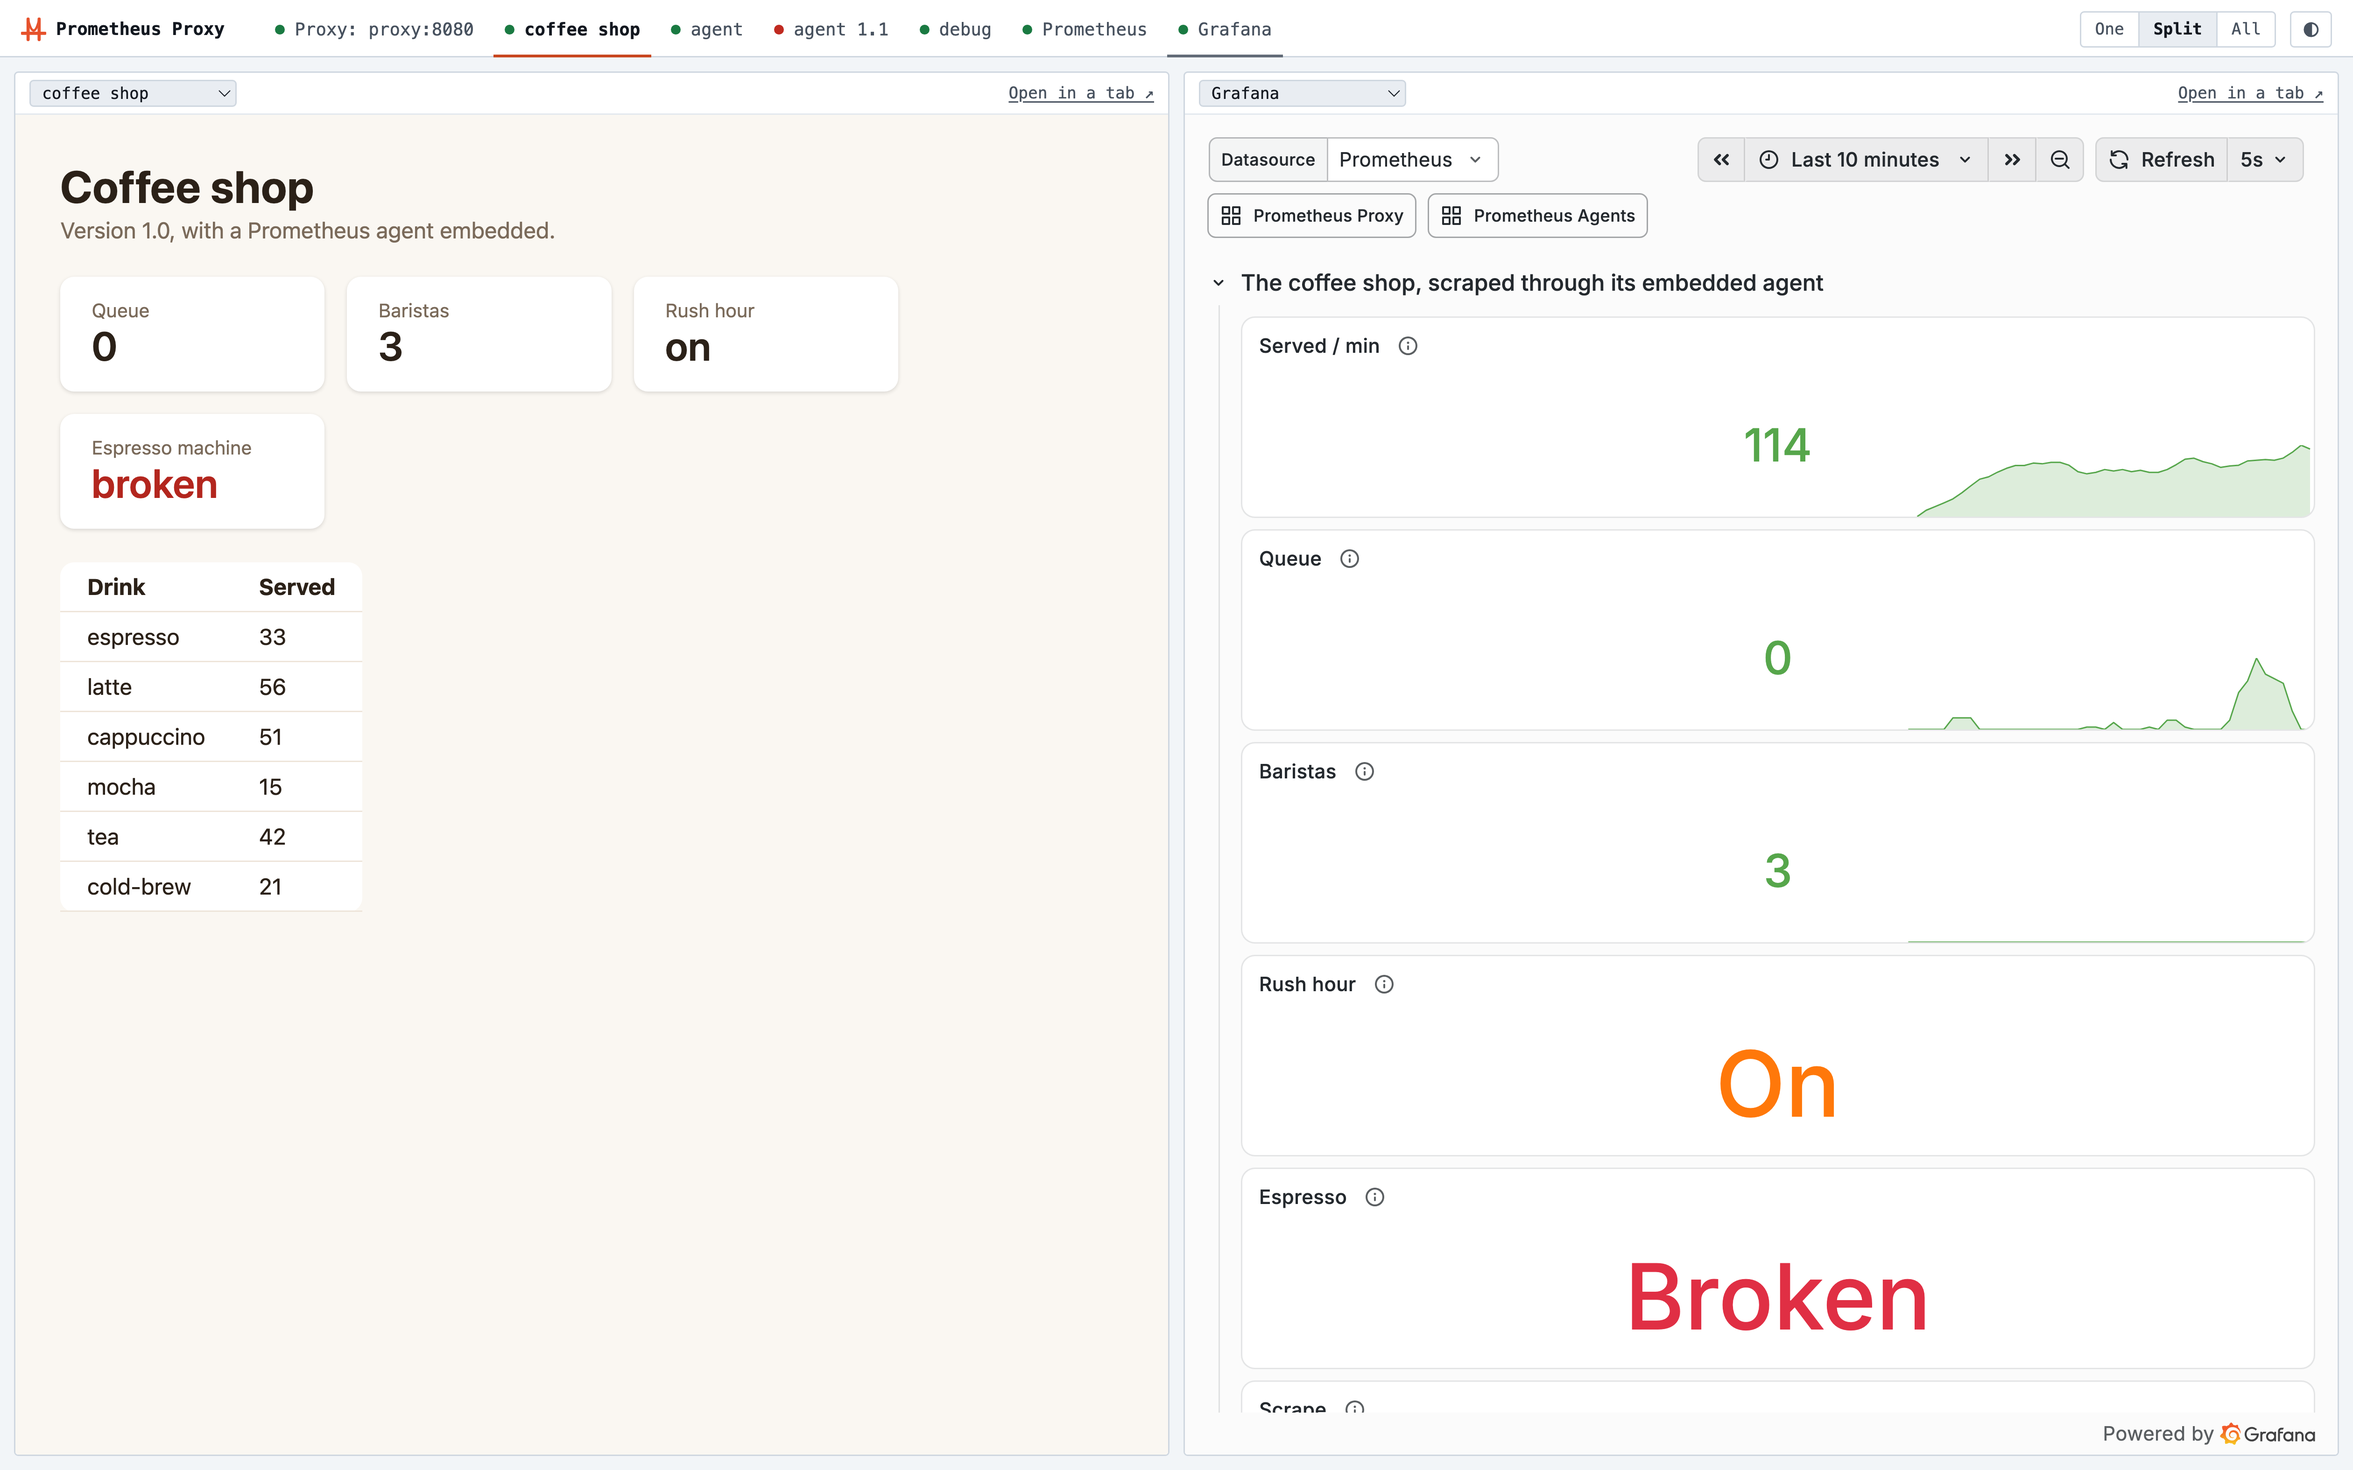
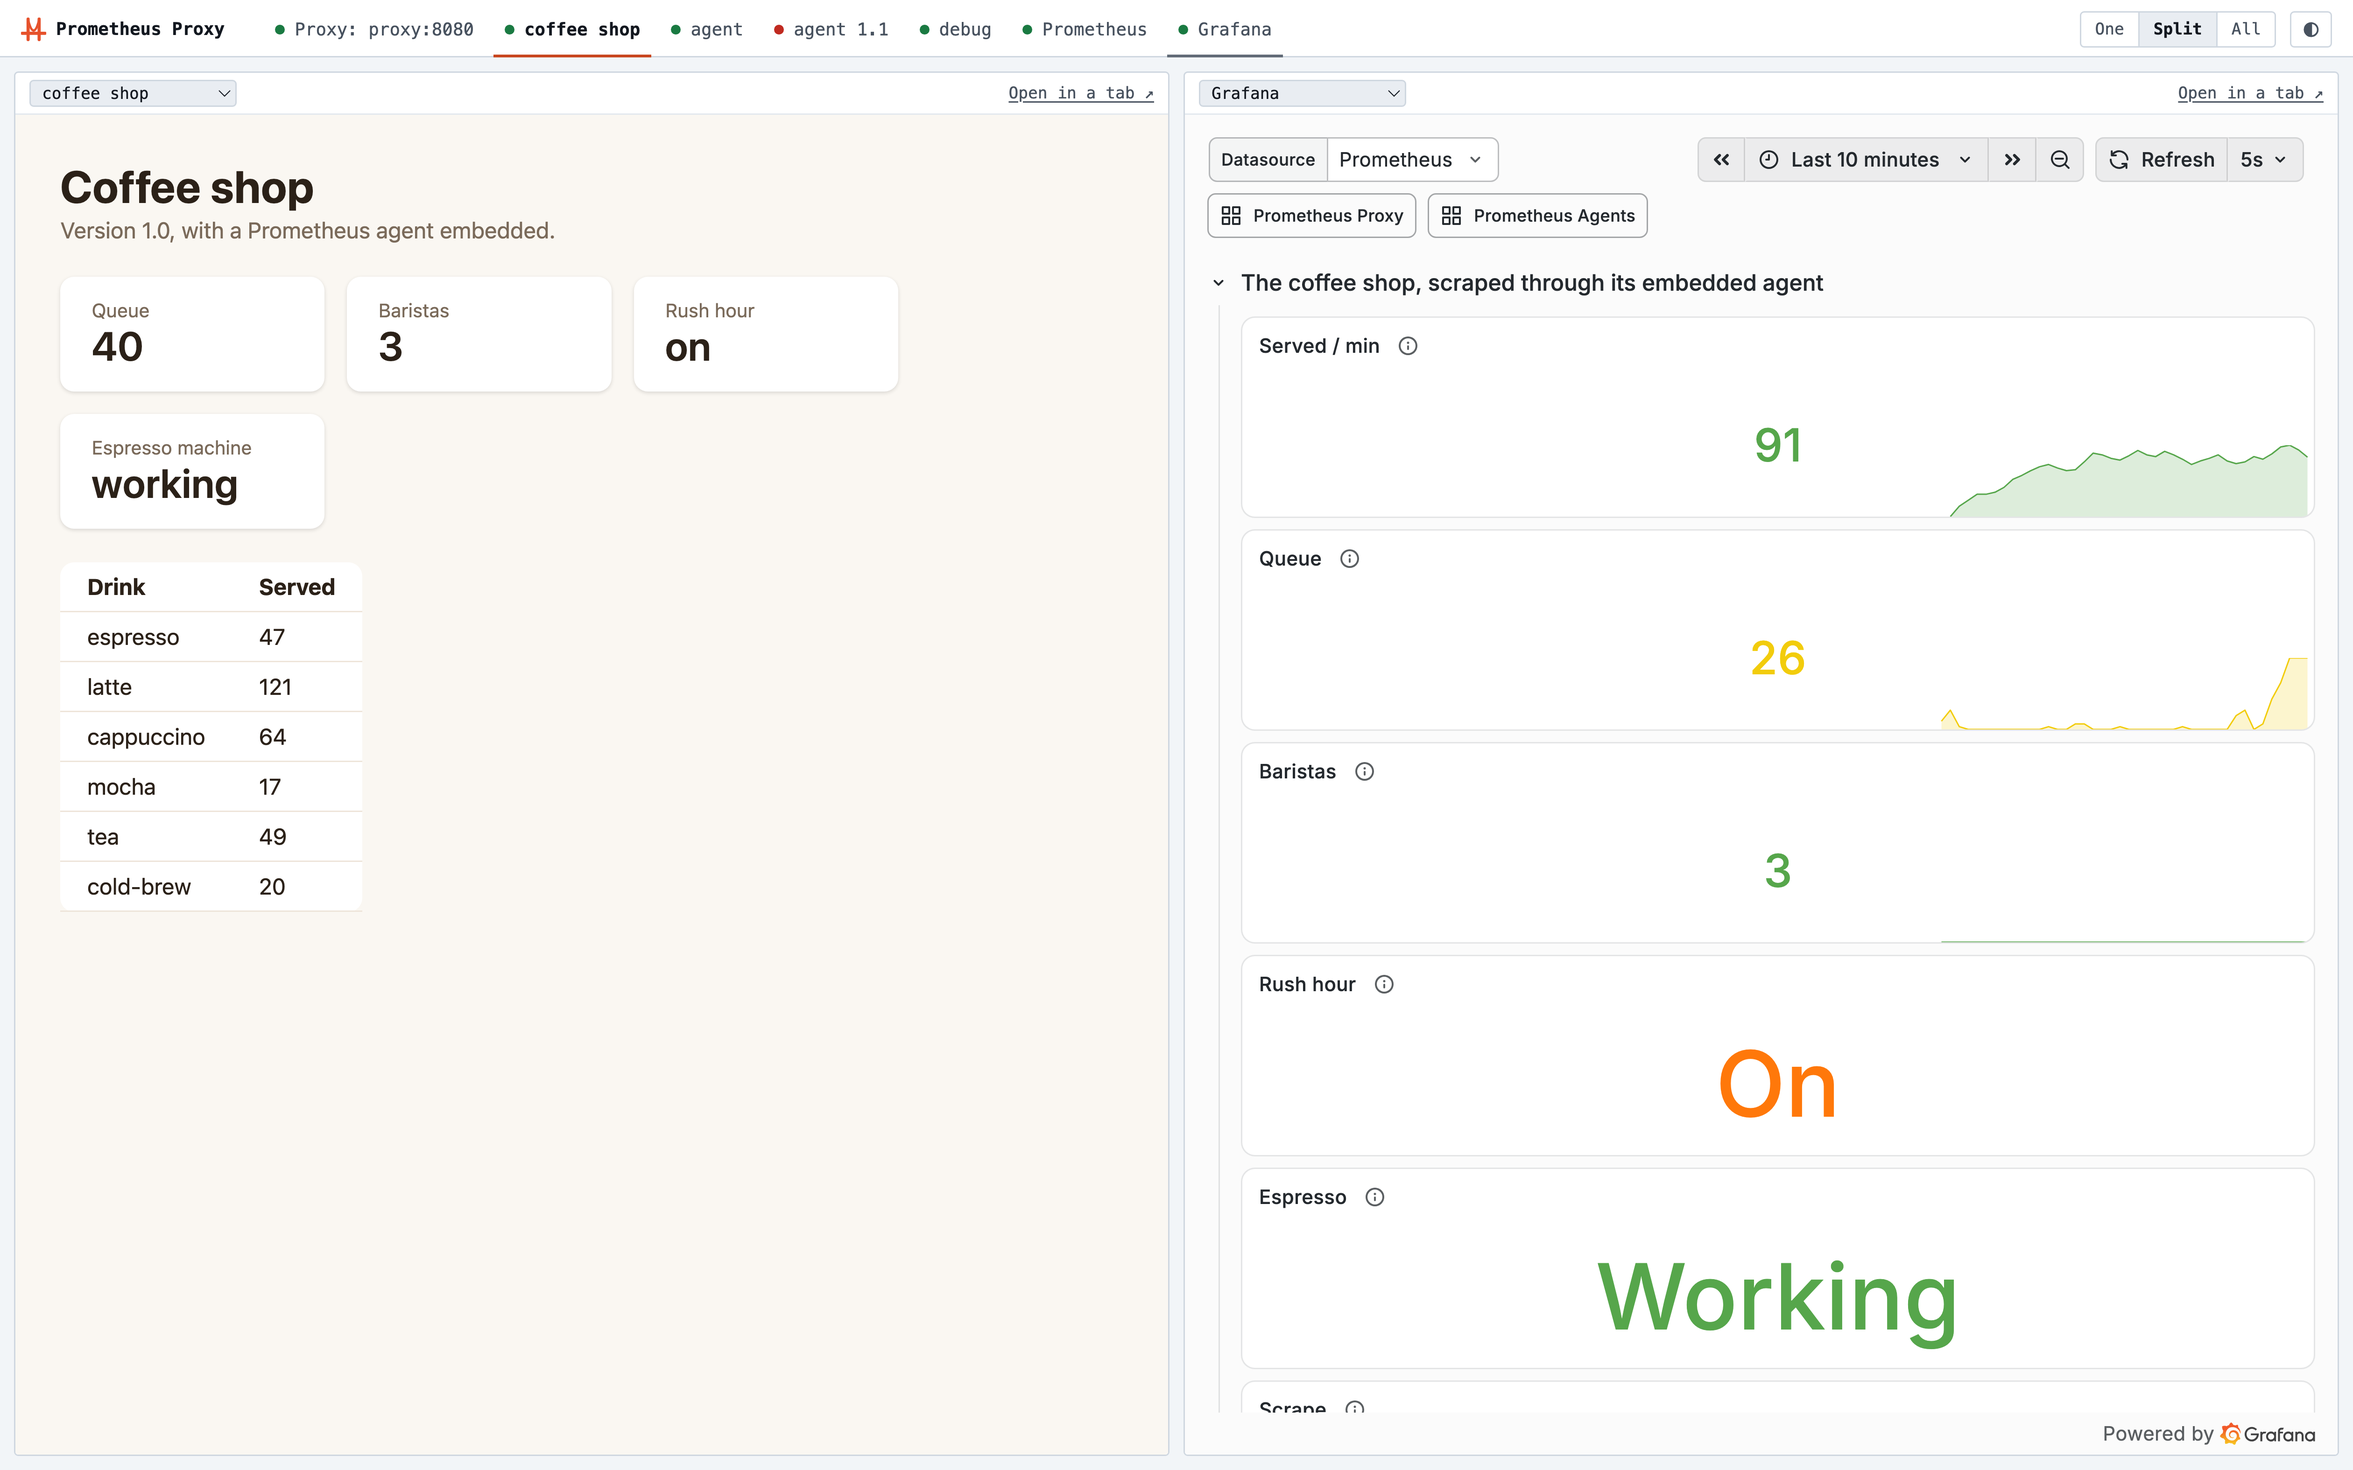
Fix the screens demos' deferred review minors (#585)
- DemoScreensLinksTest's Grafana framing check takes only a line that sets
  GF_SECURITY_ALLOW_EMBEDDING, not one commented out, and a new check fails on
  a ) or ] right after a link into the screens page, which the punctuation
  check couldn't see (a Markdown link's own ) aside).
- The root README and the network and Ktor demos' READMEs and docs pages say
  make up prints the screens page's URL, as the basics demo's do; a check
  keeps them so.
- RELEASE_NOTES.md's screens entry names the network and Ktor demos too.
- The Ktor demo's proxy-start waits for the screens page before printing its
  links into it.
- The Ktor screens shot is taken mid-rush, with the queue growing, as the
  plan said, before the espresso machine breaks.
- The Ktor demo drops its unused NEXT_AGENT_DASHBOARD_URL, and the Ktor and
  network screenshot scripts' capture() comments say it takes a width.

diff --git a/src/test/kotlin/io/prometheus/misc/DemoScreensLinksTest.kt b/src/test/kotlin/io/prometheus/misc/DemoScreensLinksTest.kt
@@ -96,14 +96,39 @@ class DemoScreensLinksTest : StringSpec() {
     return listOf(link)
   }
 
-  // Each of a demo's files' links, the text after /screens#: demo.sh names the page $SCREENS_URL, and the docs its
-  // address at the default port.
-  private fun ScreensDemo.links(): Map<String, List<String>> =
+  // Each of a demo's files that link into the page, by name: its text, and the pattern its links match. demo.sh names
+  // the page $SCREENS_URL, and the docs give its address at the default port.
+  private fun ScreensDemo.linkFiles(): Map<String, Pair<String, Regex>> =
     mapOf(
-      "$dir/demo.sh" to SCRIPT_LINK.findAll(File(dir, "demo.sh").readText()),
-      "$dir/README.md" to docsLink.findAll(File(dir, "README.md").readText()),
-      page to docsLink.findAll(File(page).readText()),
-    ).mapValues { (_, matches) -> matches.map { it.groupValues[1] }.toList() }
+      "$dir/demo.sh" to (File(dir, "demo.sh").readText() to SCRIPT_LINK),
+      "$dir/README.md" to (File(dir, "README.md").readText() to docsLink),
+      page to (File(page).readText() to docsLink),
+    )
+
+  // Each of a demo's files' links, the text after /screens#.
+  private fun ScreensDemo.links(): Map<String, List<String>> =
+    linkFiles().mapValues { (_, file) ->
+      val (text, pattern) = file
+      pattern.findAll(text).map { it.groupValues[1] }.toList()
+    }
+
+  // The links [pattern] finds in [text] with a ) or ] right after them, each with its bracket: a link stops before a
+  // bracket, so the punctuation check can't see one, though a terminal takes it as part of the address. A Markdown
+  // link's own ), after its ](, ends the link's target, not its sentence.
+  private fun bracketsAfter(
+    text: String,
+    pattern: Regex,
+  ): List<String> =
+    pattern
+      .findAll(text)
+      .mapNotNull { link ->
+        val next = text.getOrNull(link.range.last + 1)
+        val markdownTarget = text.regionMatches(link.range.first - 2, "](", 0, 2)
+        if (next == ']' || (next == ')' && !markdownTarget)) "#${link.groupValues[1]}$next" else null
+      }.toList()
+
+  // Whether a compose service's block sets GF_SECURITY_ALLOW_EMBEDDING to "true", on a line that isn't a comment.
+  private fun allowsEmbedding(service: String) = ALLOW_EMBEDDING.containsMatchIn(service)
 
   // Why the page can't follow [link], or null when it can: all, <id>, <id>/<path>, or two of those joined by +.
   private fun ScreensDemo.problem(link: String): String? {
@@ -174,6 +199,38 @@ class DemoScreensLinksTest : StringSpec() {
         .flatMap { demo ->
           demo.links().flatMap { (file, found) -> found.filter { it.last() in ",.;:" }.map { "$file: #$it" } }
         }.shouldBeEmpty()
+    }
+
+    "a link followed by a bracket should be found, but not a Markdown link's own )" {
+      bracketsAfter("(see \${SCREENS_URL}#grafana) and \$SCREENS_URL#proxy]", SCRIPT_LINK) shouldBe
+        ["#grafana)", "#proxy]"]
+      bracketsAfter("(<http://localhost:8094/screens#grafana>)", BASICS.docsLink).shouldBeEmpty()
+      bracketsAfter("[Grafana](http://localhost:8094/screens#grafana)", BASICS.docsLink).shouldBeEmpty()
+    }
+
+    "no link into the screens page should be followed by a bracket" {
+      DEMOS
+        .flatMap { demo ->
+          demo.linkFiles().flatMap { (file, contents) ->
+            val (text, pattern) = contents
+            bracketsAfter(text, pattern).map { "$file: $it" }
+          }
+        }.shouldBeEmpty()
+    }
+
+    // make up prints the screens page's address, which holds the demo's other URLs, so its README and docs page say
+    // so, as the repository's README does for the demo it starts.
+    "each demo's README and docs page should say make up prints the screens page's URL" {
+      DEMOS.forEach { demo ->
+        val makeUp = Regex("""cd prometheus-proxy/${Regex.escape(demo.dir)}\nmake up +#([^\n]*)""")
+        mapOf("${demo.dir}/README.md" to true, demo.page to true, "README.md" to false).forEach { (file, required) ->
+          withClue(file) {
+            val comments = makeUp.findAll(File(file).readText()).map { it.groupValues[1] }.toList()
+            if (required) comments.shouldNotBeEmpty()
+            comments.filterNot { "screens page's URL" in it }.shouldBeEmpty()
+          }
+        }
+      }
     }
 
     // The page is the proxy's, so a link into it while the proxy is down opens only the browser's connection error,
@@ -251,10 +308,17 @@ class DemoScreensLinksTest : StringSpec() {
       }
     }
 
+    "the Grafana framing check should take a line that sets it, not one commented out" {
+      allowsEmbedding("""      GF_SECURITY_ALLOW_EMBEDDING: "true"""") shouldBe true
+      allowsEmbedding("""      GF_SECURITY_ALLOW_EMBEDDING: "true"  # for the screens page""") shouldBe true
+      allowsEmbedding("""      # GF_SECURITY_ALLOW_EMBEDDING: "true"""") shouldBe false
+      allowsEmbedding("""      #GF_SECURITY_ALLOW_EMBEDDING: "true"""") shouldBe false
+    }
+
     // Grafana refuses framing unless told, and the page can't tell a frame it refused from an empty one.
     "a demo whose page lists Grafana should let Grafana be framed" {
       DEMOS.filter { "grafana" in screenIds.getValue(it) }.forEach { demo ->
-        withClue(demo.dir) { demo.composeService("grafana") shouldContain """GF_SECURITY_ALLOW_EMBEDDING: "true"""" }
+        withClue(demo.dir) { allowsEmbedding(demo.composeService("grafana")) shouldBe true }
       }
     }
   }
@@ -268,6 +332,9 @@ class DemoScreensLinksTest : StringSpec() {
     // A link runs to the next space, quote, or bracket, as the demo's URLs end unpunctuated.
     const val LINK_TAIL = """#([^\s"'`)\]<>\\]+)"""
     val SCRIPT_LINK = Regex("""\$\{?SCREENS_URL}?$LINK_TAIL""")
+
+    // GF_SECURITY_ALLOW_EMBEDDING: "true" as a line of its own, which may end in a comment, but not start with one.
+    val ALLOW_EMBEDDING = Regex("""(?m)^\s+GF_SECURITY_ALLOW_EMBEDDING: "true"(\s+#.*)?$""")
     val OPTIONAL = Regex("""\$\{\?([A-Za-z0-9_]+)}""")
 
     // A compose variable with its default, ${NAME:-default}.

diff --git a/docs/TESTING.md b/docs/TESTING.md
@@ -1047,10 +1047,12 @@ These support helpers also live here (not test classes themselves):
   `http://localhost:8094/screens#…`) parses as the page parses it and names only the proxy's tab, the grid, or a screen
   its proxy config lists (read without the environment, and checked as the proxy checks it at startup), split into
   panes as the page splits them, each file has one, and the links include a screen, a screen's view, and two screens
-  side by side, and none ends in punctuation; every screen's `url` reads a `${?…}` variable that compose gives the
-  page's proxy, set from the port compose publishes the screen on, so a moved port moves its tab; a demo whose page
-  lists Grafana lets Grafana be framed (`GF_SECURITY_ALLOW_EMBEDDING`); its `./demo.sh help` says `open` opens the
-  page; and while the page's proxy is stopped, a demo that stops it points at a screen's own URL, not the page
+  side by side, and none ends in punctuation or is followed by a `)` or `]` (a Markdown link's own `)` aside); every
+  screen's `url` reads a `${?…}` variable that compose gives the page's proxy, set from the port compose publishes the
+  screen on, so a moved port moves its tab; a demo whose page lists Grafana lets Grafana be framed, on a line of its
+  compose file that isn't a comment (`GF_SECURITY_ALLOW_EMBEDDING`); its `./demo.sh help` says `open` opens the page,
+  and its README and docs page, and the repository's README, say `make up` prints the screens page's URL; and while
+  the page's proxy is stopped, a demo that stops it points at a screen's own URL, not the page
 - **DemoTourTablesTest** — each demo's README and its page on the docs site have a What This Demo Shows table that
   names the demo's tour parts, its `TOUR_PARTS` in `demo.sh`, in order; a README's rows link to their parts' sections
   of its Guided Tour, each headed with its part's name; a page's rows, where they link, link only to sections below the

diff --git a/website/prometheus-proxy/docs/ktor-demo.md b/website/prometheus-proxy/docs/ktor-demo.md
@@ -62,7 +62,7 @@ its targets:
 ```bash
 git clone -c advice.detachedHead=false --depth 1 --branch 4.7.1 https://github.com/pambrose/prometheus-proxy.git
 cd prometheus-proxy/demos/ktor
-make up      # builds the coffee shop, starts everything, prints the URLs
+make up      # builds the coffee shop, starts everything, prints the screens page's URL
 make tour    # walks through every scenario below, pausing before each step
 make down    # stops it and removes its containers and network
 ```
@@ -215,8 +215,8 @@ the coffee shop's status page beside it to watch the queue on both:
 <http://localhost:8394/screens#coffee-shop+grafana>
 
 <figure markdown="span">
-  ![The coffee shop's status page beside Grafana, during a rush with the espresso machine broken](images/ktor-demo/screens.webp#only-dark){ loading=lazy }
-  ![The coffee shop's status page beside Grafana, during a rush with the espresso machine broken](images/ktor-demo/screens-light.webp#only-light){ loading=lazy }
+  ![The coffee shop's status page beside Grafana, during a rush, with its queue growing](images/ktor-demo/screens.webp#only-dark){ loading=lazy }
+  ![The coffee shop's status page beside Grafana, during a rush, with its queue growing](images/ktor-demo/screens-light.webp#only-light){ loading=lazy }
   <figcaption>The proxy's screens page: the coffee shop's status page beside Grafana</figcaption>
 </figure>
 

diff --git a/RELEASE_NOTES.md b/RELEASE_NOTES.md
@@ -45,7 +45,8 @@ its own that holds them all, with Prometheus and Grafana.
   search, and All scrolls, loading each screen as it comes into view. A link can open a screen, a view in it, or two
   side by side, such as `/screens#proxy/paths+grafana`, and a link opened while the page is open goes to that page.
   With screens listed, `framingEnabled = false` still lets the page show the proxy's dashboard, from its own origin.
-  Behind a reverse proxy, pass `/screens` on as well as `/dashboard`. The basics demo's tour now runs in it.
+  Behind a reverse proxy, pass `/screens` on as well as `/dashboard`. The basics, network, and Ktor demos' tours now
+  run in it.
 
 ### Bug Fixes
 

diff --git a/demos/ktor/README.md b/demos/ktor/README.md
@@ -57,7 +57,7 @@ its targets:
 ```bash
 git clone -c advice.detachedHead=false --depth 1 --branch 4.7.1 https://github.com/pambrose/prometheus-proxy.git
 cd prometheus-proxy/demos/ktor
-make up      # builds the coffee shop, starts everything, and prints the URLs
+make up      # builds the coffee shop, starts everything, and prints the screens page's URL
 make tour    # walks through the guided tour below, pausing before each step
 make down    # stops it and removes its containers and network
 ```

diff --git a/demos/network/README.md b/demos/network/README.md
@@ -44,7 +44,7 @@ its targets:
 ```bash
 git clone -c advice.detachedHead=false --depth 1 --branch 4.7.1 https://github.com/pambrose/prometheus-proxy.git
 cd prometheus-proxy/demos/network
-make up      # pulls the images, starts everything, and prints the URLs
+make up      # pulls the images, starts everything, and prints the screens page's URL
 make tour    # walks through the guided tour below, pausing before each step
 make down    # stops it and removes its containers and network
 ```

diff --git a/website/prometheus-proxy/docs/network-demo.md b/website/prometheus-proxy/docs/network-demo.md
@@ -68,7 +68,7 @@ its targets:
 ```bash
 git clone -c advice.detachedHead=false --depth 1 --branch 4.7.1 https://github.com/pambrose/prometheus-proxy.git
 cd prometheus-proxy/demos/network
-make up      # pulls the images, starts everything, prints the URLs
+make up      # pulls the images, starts everything, prints the screens page's URL
 make tour    # walks through every scenario below, pausing before each step
 make down    # stops it and removes its containers and network
 ```

diff --git a/README.md b/README.md
@@ -74,7 +74,7 @@ of memory and CPU.
 ```bash
 git clone -c advice.detachedHead=false --depth 1 --branch 4.7.1 https://github.com/pambrose/prometheus-proxy.git
 cd prometheus-proxy/demos/basics
-make up      # pulls the images, starts everything, and prints the URLs
+make up      # pulls the images, starts everything, and prints the screens page's URL
 make tour    # the guided tour
 make down    # stops the demo and removes its containers
 ```
